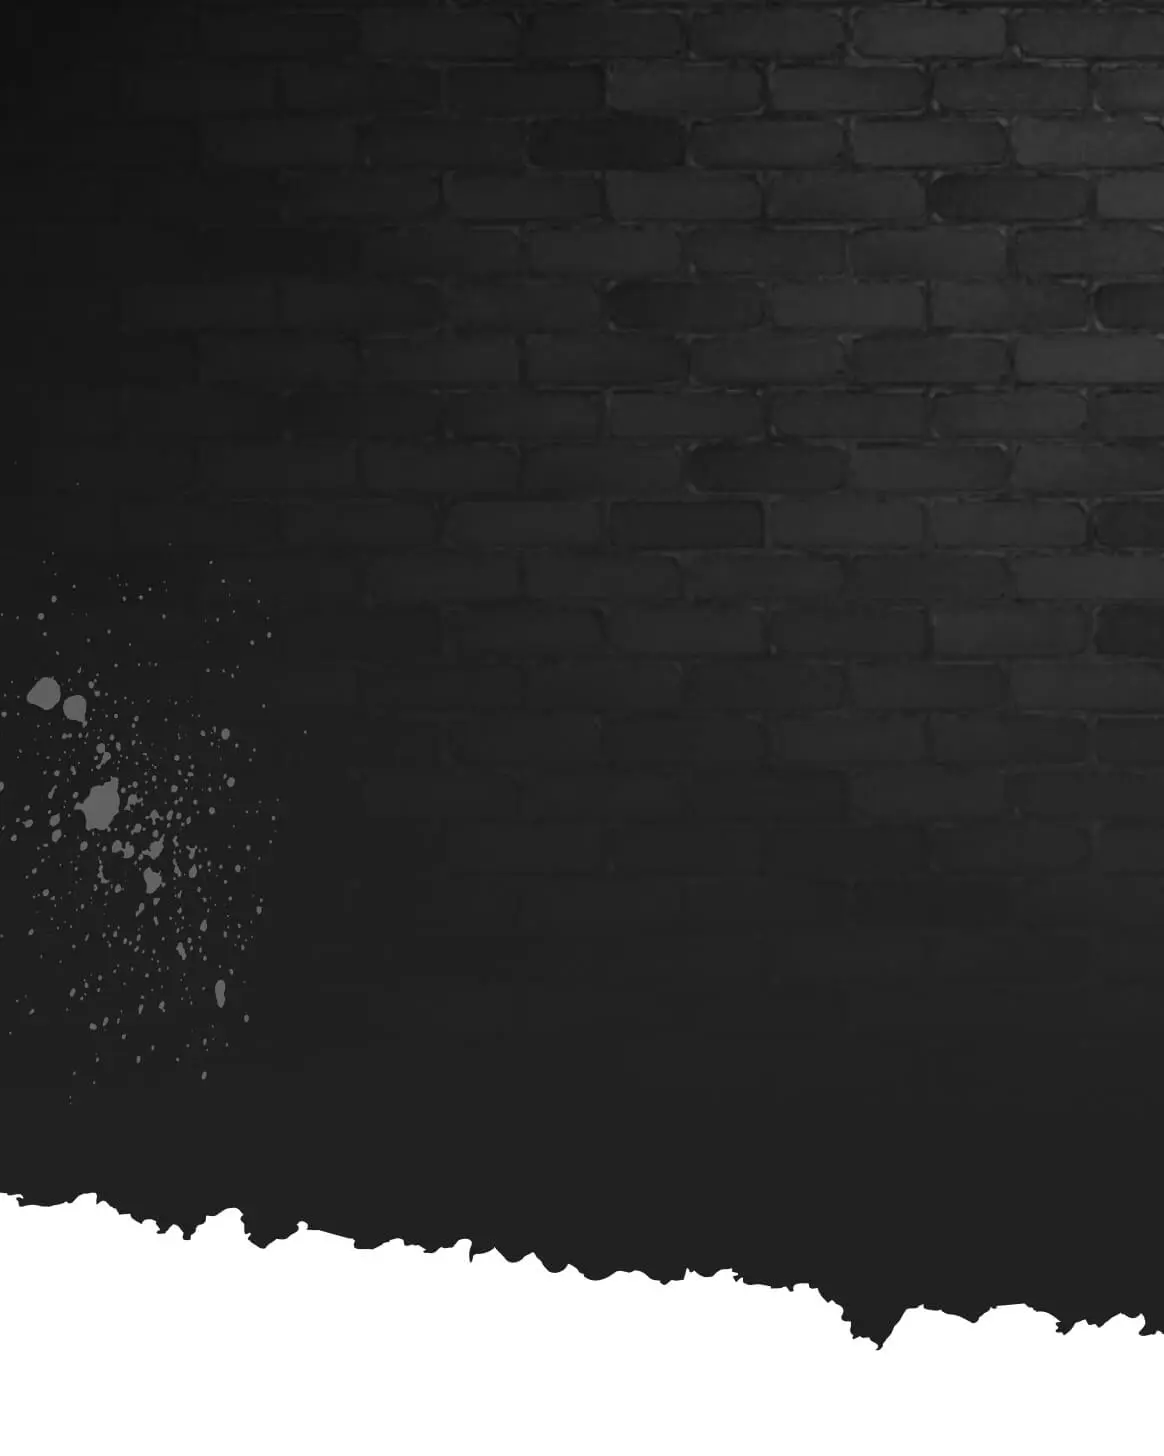
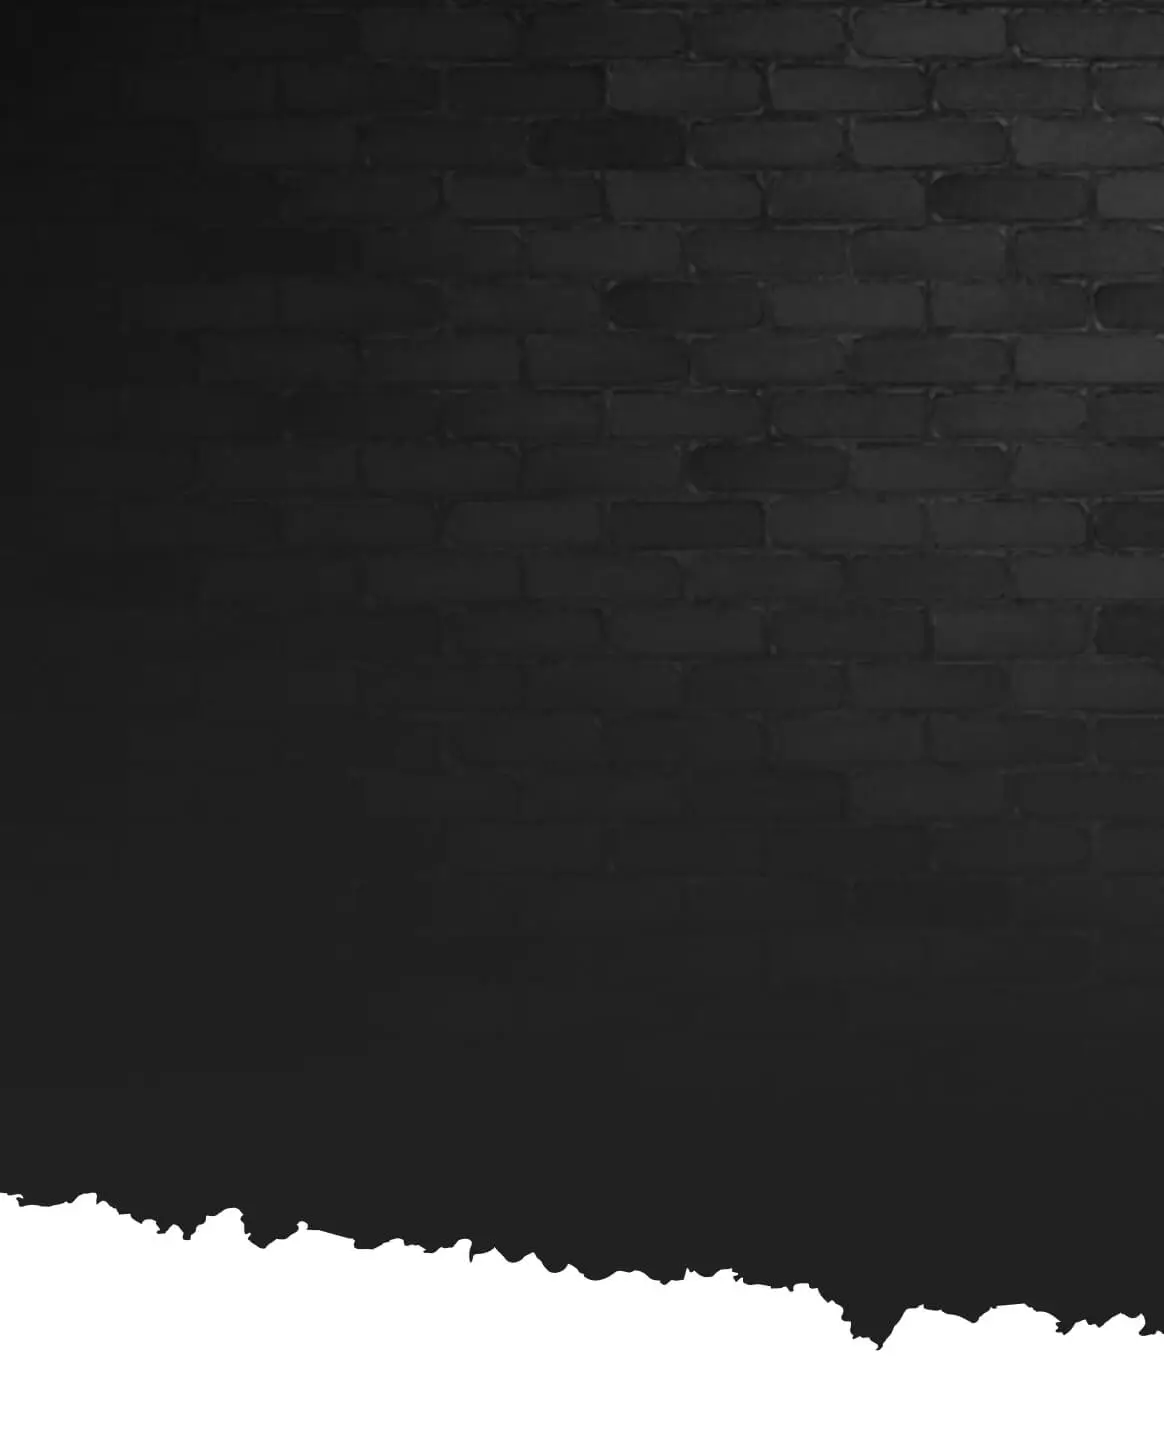
refactor hero

Changed region(s): [[0.0, 0.4636, 0.1856, 0.6181], [0.1856, 0.6799, 0.2165, 0.7109], [0.0928, 0.6181, 0.1237, 0.649]]

diff --git a/index.html b/index.html
@@ -234,6 +234,13 @@
     <main id="main-content">
       <!-- Hero Section -->
       <section class="hero" aria-labelledby="hero-heading">
+        <img
+          class="hero-spray"
+          src="/public/images/spray-hero.png"
+          alt=""
+          width="269"
+          height="269"
+        />
         <div class="hero-left">
           <time class="hero-date" datetime="2022-05-28">28.05.2022</time>
           <h1 class="hero-heading" id="hero-heading">Celebra este día tan especial</h1>

diff --git a/src/css/blocks/hero.css b/src/css/blocks/hero.css
@@ -10,6 +10,14 @@
   padding: 70px 0;
 }
 
+.hero-spray {
+  position: absolute;
+  top: 30%;
+  left: -5%;
+  width: 269px;
+  height: 269px;
+}
+
 .hero-left {
   max-width: 490px;
   padding: 108px 0;
